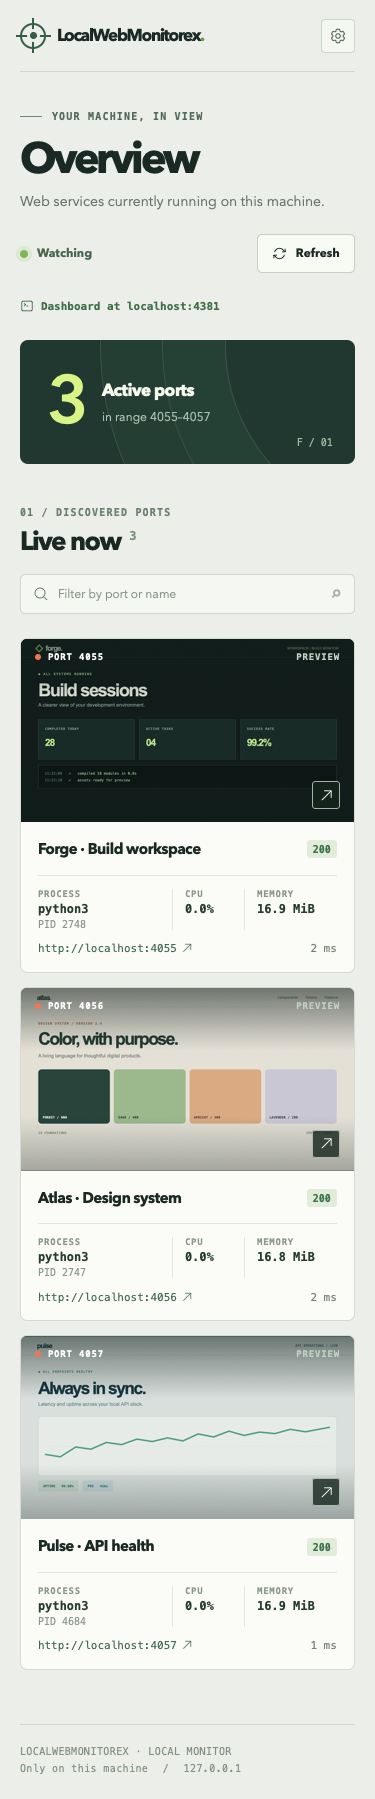
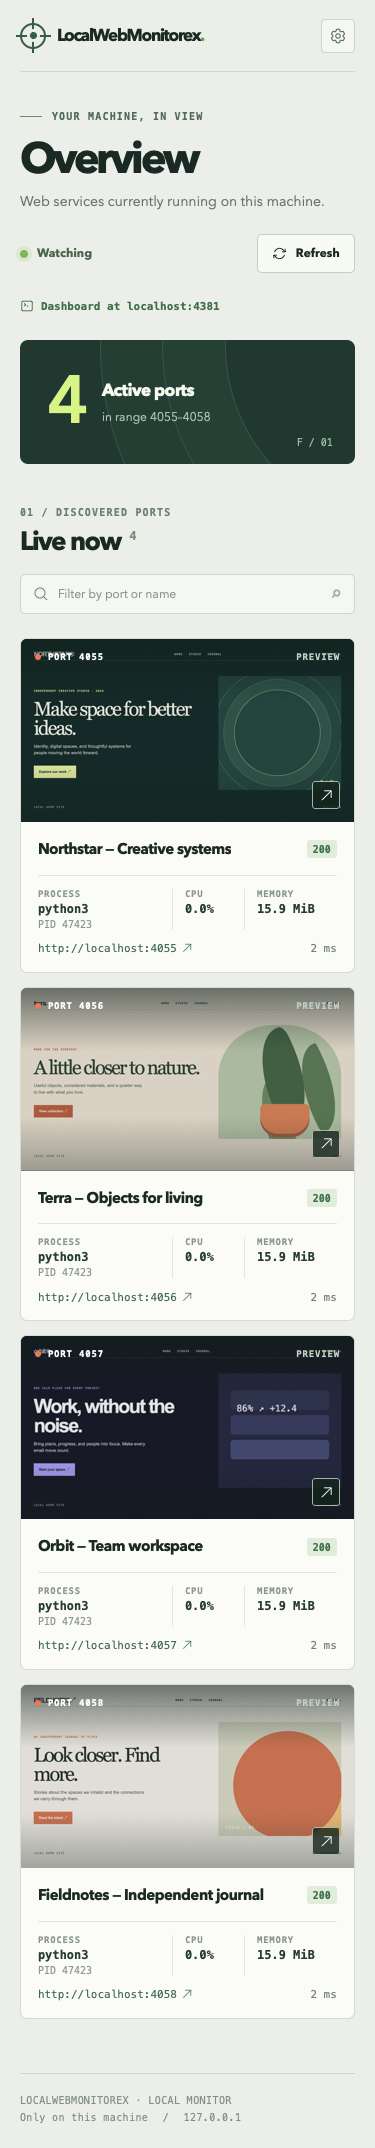
Show multiport demo screenshots and app mark in README (#6)

diff --git a/README.md b/README.md
@@ -1,12 +1,14 @@
-# LocalWebMonitorex
+<p align="center"><img src="priv/static/images/favicon.svg" alt="LocalWebMonitorex logo" width="76"></p>
+<h1 align="center">LocalWebMonitorex</h1>
+<p align="center"><strong>Your localhost, at a glance.</strong></p>
 
-**Your localhost, at a glance.** LocalWebMonitorex is a small Phoenix LiveView dashboard that finds the web apps running on your computer and gives each one a live card. See the port, page preview, HTTP status, response time, and—when the operating system exposes it—the listening process, CPU usage, and resident memory. Open any app with one click.
+LocalWebMonitorex is a small Phoenix LiveView dashboard that finds the web apps running on your computer and gives each one a live card. See the port, page preview, HTTP status, response time, and—when the operating system exposes it—the listening process, CPU usage, and resident memory. Open any app with one click.
 
 [![CI](https://github.com/sallaumen/LocalWebMonitorex/actions/workflows/ci.yml/badge.svg)](https://github.com/sallaumen/LocalWebMonitorex/actions/workflows/ci.yml) [![License: MIT](https://img.shields.io/badge/license-MIT-305444)](LICENSE)
 
-![LocalWebMonitorex desktop dashboard showing three sample local web apps](docs/screenshots/dashboard.png)
+![LocalWebMonitorex dashboard showing four sample web apps on ports 4055 through 4058](docs/screenshots/dashboard.png)
 
-<sub>The screenshots use three sample apps, a temporary 4055–4057 demo range, and dashboard port 4381. They contain no contributor applications or private local pages.</sub>
+<sub>These captures show four temporary sample sites on ports 4055–4058. The screenshot session used dashboard port 4381; the product default is 4100. No contributor apps or private pages appear.</sub>
 
 ## Why use it?
 
@@ -22,7 +24,10 @@
 | Linux | Supported | PID, CPU, memory when `lsof` and `ps` are installed | Manual setup |
 | Windows | Supported through PowerShell | PID and memory through `Get-NetTCPConnection` and `Get-Process`; CPU shown as unavailable | Manual setup |
 
-![LocalWebMonitorex mobile dashboard showing sample apps](docs/screenshots/mobile.png)
+<details>
+<summary>See the mobile dashboard</summary>
+<p><img src="docs/screenshots/mobile.png" alt="LocalWebMonitorex mobile dashboard with four local sites" width="375"></p>
+</details>
 
 ## Quick start
 
@@ -79,6 +84,8 @@ Removing the LaunchAgent keeps the installed copy and your saved preferences.
 ## Configuration
 
 Open **Settings** to change the dashboard port or watched range. Both changes take effect on the next process start. The dashboard port accepts 1024–65535 and defaults to **4100**. The watched range is inclusive, defaults to **4000–4099**, accepts ports 1–65535, and is limited to 1,000 ports per scan. The dashboard always excludes its own port even when it falls inside the watched range.
+
+![Settings panel for dashboard port and watched range](docs/screenshots/settings.png)
 
 Preferences are two plain text files: `port` contains one port number, and `range` contains `START-END`. They live in `~/.config/localwebmonitorex/` on macOS/Linux or `%APPDATA%\LocalWebMonitorex\` on Windows. Unix users can set `XDG_CONFIG_HOME`. Set `LOCALWEBMONITOREX_CONFIG` to choose a different port file; the range file defaults to its sibling `range`. Set `LOCALWEBMONITOREX_RANGE_CONFIG` to override that path. The `PORT` environment variable takes priority over the saved dashboard port.
 
